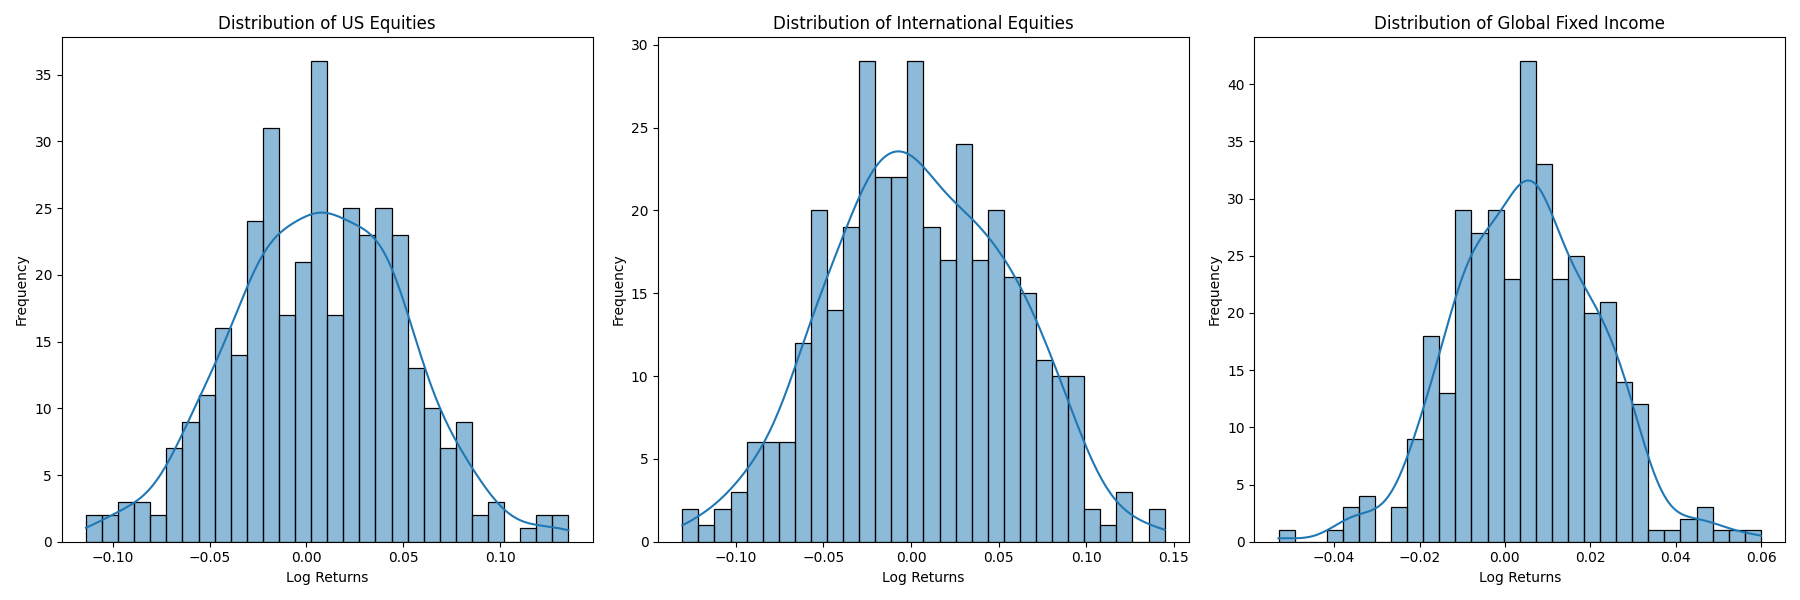
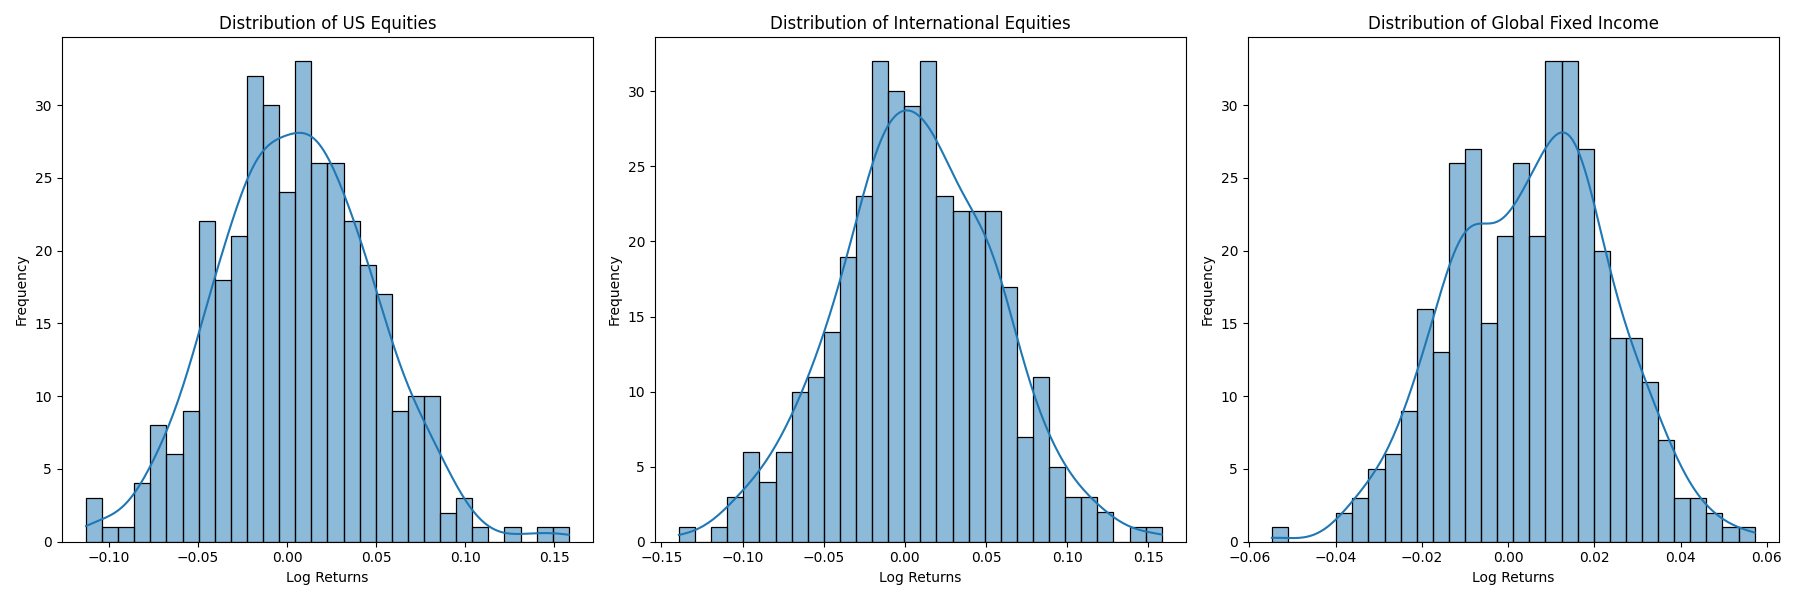
Cleaned code +added clarifying prints

diff --git a/QuantumPerformanceSimulation.py b/QuantumPerformanceSimulation.py
@@ -1,6 +1,7 @@
 import pandas as pd
 import numpy as np
 import datetime
+import seaborn as sns
 import matplotlib.pyplot as plt
 from qiskit_ibm_runtime import SamplerV2 as Sampler
 from qiskit_finance.circuit.library.probability_distributions import NormalDistribution
@@ -10,7 +11,9 @@ from qiskit.circuit.library import QFT
 from qiskit_finance.data_providers import BaseDataProvider
 from qiskit_finance.circuit.library import GaussianConditionalIndependenceModel
 from qiskit_ibm_runtime import QiskitRuntimeService, Session
-
+import openpyxl
+import calendar
+import os
 from qiskit.quantum_info import Statevector
 
 
@@ -98,16 +101,12 @@ class StockDataProcessor(BaseDataProvider):
 
         return self._data.cov().to_numpy()
 
-#        return np.log(1 + prices).dropna()
-
 # Example usage of class
 data = StockDataProcessor(
     start=datetime.datetime(2004, 4, 30),
     end=datetime.datetime(2024, 3, 31),
     file_path="./data/historic_data.xlsx"
 )
-
-
 data.run()
 
 # Plotting log returns for each ticker
@@ -117,16 +116,14 @@ plt.legend(loc="upper center", bbox_to_anchor=(0.5, 1.1), ncol=3)
 plt.xticks(rotation=90)
 plt.savefig('StockGraph.png')
 
-
+#calculations
 mean_vector = data.get_period_return_mean_vector() 
 cov_matrix = data.get_period_return_covariance_matrix() 
-precision_matrix = np.linalg.inv(cov_matrix)  
 volatility = np.exp(np.sqrt(np.diag(cov_matrix))) - 1
-
 std_devs = np.sqrt(np.diag(cov_matrix))
-# Calculate the correlation matrix
 correlation_matrix = cov_matrix / np.outer(std_devs, std_devs)
-print(correlation_matrix)
+
+print("Actual Correlation: ", correlation_matrix)
 flattened = list(set(correlation_matrix.flatten()))
 correlation_matrix_adjusted = [ round(elem, 4) for elem in flattened ] # Sensitivities of default probabilities rounded to 4 decimal places
 correlation_matrix_adjusted.remove(1.) #remove dummy data (correlation of 1 for same stock)
@@ -135,9 +132,6 @@ correlation_matrix_adjusted.remove(1.)
 
 annual_expected_returns = np.array([0.1, 0.1, 0.06]) # Standard default probabilities
 monthly_expected_log_returns = np.log(1 + annual_expected_returns) / 12
-
-import seaborn as sns
-
 
 simulated_log_returns = np.random.multivariate_normal(
     monthly_expected_log_returns, cov_matrix, 360
@@ -160,36 +154,29 @@ for i, column in enumerate(simulated_log_returns.columns, 1):
 plt.tight_layout()
 plt.savefig("expectedoutput.png")
 
-num_qubits = [4,4,4]
-print(monthly_expected_log_returns)
-print(cov_matrix)
+num_qubits = [5,5,5]
+print("Actual Covariance: ",cov_matrix)
+print("Actual Mean: ",mean_vector)
 std_devs = np.sqrt(np.diag(cov_matrix))
+print("Actual STDEVS: ", std_devs)
 
-print(std_devs)
 # Calculate bounds as +- 3 standard deviations around the mean
 bounds = [(monthly_expected_log_returns[i] - 3*std_devs[i], monthly_expected_log_returns[i] + 3*std_devs[i]) for i in range(len(monthly_expected_log_returns))]
-
-# Print calculated bounds
-print("Calculated Bounds:")
-for i, b in enumerate(bounds):
-    print(f"Dimension {i+1}: {b}")
 mvnd = NormalDistribution(num_qubits,monthly_expected_log_returns, cov_matrix, bounds=bounds )
 
 qc = QuantumCircuit(sum(num_qubits))
 qc.append(mvnd, range(sum(num_qubits)))
-#qc.append(QFT(sum(num_qubits)), range(sum(num_qubits)))
 qc.measure_all()
 
-
+print("------------------------------------------------")
 # Sample using the Sampler primitive
 sampler = Sampler()
-job = sampler.run([qc], shots=360)
+job = sampler.run([qc], shots=2000)
 result = job.result()
 
 # Extract quasi-probabilities and convert them to binary-encoded samples
 counts = result.quasi_dists[0].nearest_probability_distribution().binary_probabilities()
-print(counts)
-binary_samples = [k for k, v in counts.items() for _ in range(int(v * 360))]
+binary_samples = [k for k, v in counts.items() for _ in range(int(v * 2000))]
 
 # Decode samples back to individual asset values
 def binary_to_asset_values(binary_sample, num_qubits, mu, sigma):
@@ -208,12 +195,7 @@ def binary_to_asset_values(binary_sample, num_qubits, mu, sigma):
 # Apply the conversion function to all samples
 asset_samples = np.array([binary_to_asset_values(sample, num_qubits, monthly_expected_log_returns, cov_matrix) for sample in binary_samples])
 
-
 def create_new_xslx_monthly_dates(load_data, filename):
-    import openpyxl
-    import datetime
-    import calendar
-    import os
 
     def month_increment(start_date, num_months):
         # Calculate the new month and year
@@ -226,11 +208,7 @@ def create_new_xslx_monthly_dates(load_data, filename):
         # Ensure the new day is the last valid day of the new month if the original day doesn't exist in the new month
         new_day = min(start_date.day, last_day_of_month)
         return datetime.date(new_year, new_month, new_day)
-
-    # Define the start date
     start_date = datetime.date(2004, 4, 30)
-
-    # Generate monthly dates for each row in the data array
     monthly_dates = [month_increment(start_date, i) for i in range(load_data.shape[0])]
 
     if os.path.exists(filename):
@@ -239,37 +217,33 @@ def create_new_xslx_monthly_dates(load_data, filename):
         wb = openpyxl.Workbook()
 
     ws = wb.active
-
-    # Clear the existing data in the worksheet
     ws.delete_rows(1, ws.max_row)
-    # Create a new workbook and select the active worksheet
-   
-
-    # Set the column labels
     ws.append(['Date', '^GSPC', '^ACWX', '^GLAB.L'])
 
     # Iterate over the data and append each row to the worksheet with the monthly date
     for i, row in enumerate(load_data):
         ws.append([monthly_dates[i].strftime('%Y-%m-%d')] + row.tolist())
-
-    # Save the workbook
     wb.save(filename)
 
 
-create_new_xslx_monthly_dates(asset_samples,filename="output.xslx")
+create_new_xslx_monthly_dates(asset_samples,filename="output.xlsx")
 
-run_data = StockDataProcessor( 
+generated_Data = StockDataProcessor( 
     start=datetime.datetime(2004, 4, 30),
     end=datetime.datetime(2024, 3, 31),
-    file_path="output2.xlsx")
-run_data.run()
-cov_matrix = run_data.get_period_return_covariance_matrix() 
-print(cov_matrix)
+    file_path="output.xlsx")
+generated_Data.run()
 
+cov_matrix = generated_Data.get_period_return_covariance_matrix() 
+mean_vec = generated_Data.get_period_return_mean_vector()
 std_devs = np.sqrt(np.diag(cov_matrix))
-# Calculate the correlation matrix
 correlation_matrix2 = cov_matrix / np.outer(std_devs, std_devs)
-print(correlation_matrix2)
+
+print("Generated Correlation: ", correlation_matrix2)
+print("Generated Covariance: ", cov_matrix)
+print("Generated Mean: ", mean_vec)
+print("Generated STDEVS: ", std_devs)
+
 # Plot the sampled distribution
 fig, axes = plt.subplots(1, 3, figsize=(18, 6))
 for i, asset in enumerate(data._tickers):
@@ -279,5 +253,5 @@ for i, asset in enumerate(data._tickers):
     axes[i].set_title(f'{asset} Returns Distribution (120 Samples)')
 
 fig.suptitle('Sample Distribution of Multivariate Normal Distribution (120 Samples)')
-plt.show()
+plt.savefig("gen_output.png")
 
